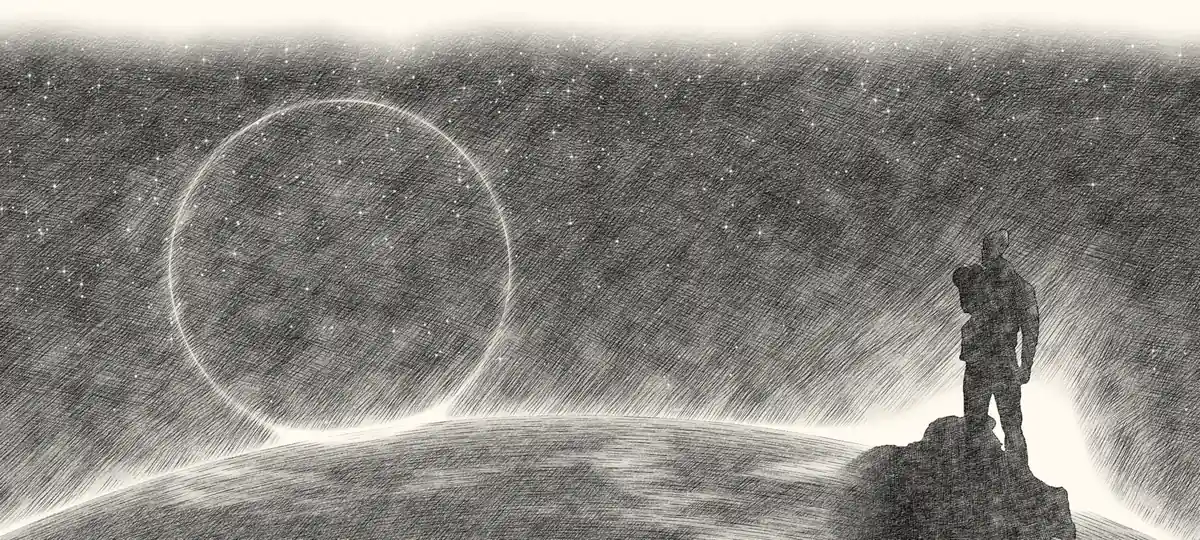
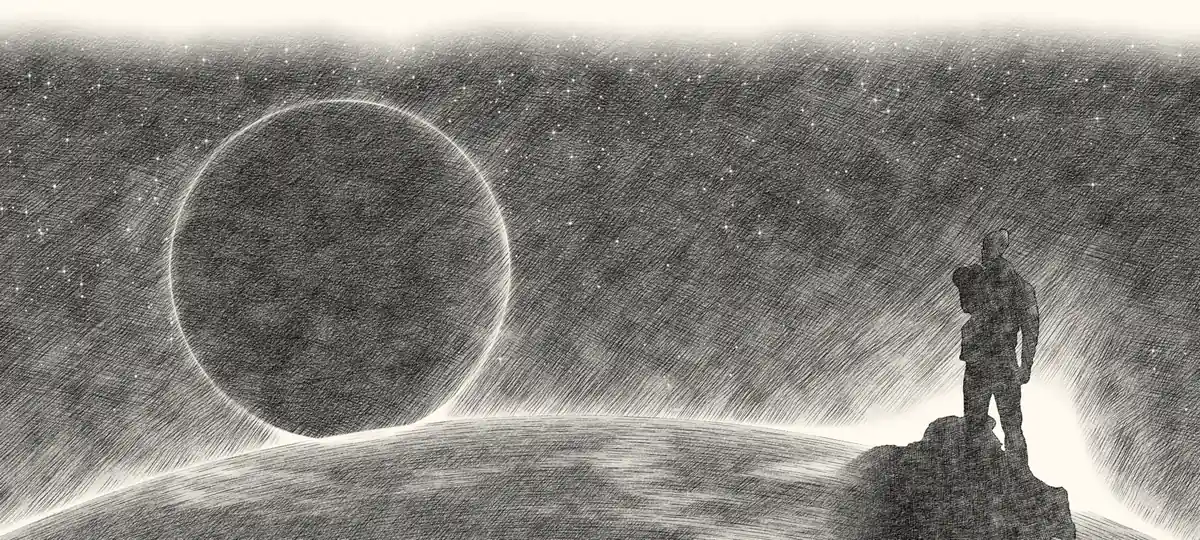
Make the footer's ring a solid planet
Stars no longer show through it. It's shaded darker than the sky and lit
from the right, where the glow behind the man is, so it reads as a ball
rather than a hole.

Session: claude://claude.ai/epitaxy/local_8bf3452f-ca40-4c1d-a549-1e6323dcae47

Changed region(s): [[0.1233, 0.1778, 0.4317, 0.8296]]

diff --git a/bin/footer-drawing/erase.py b/bin/footer-drawing/erase.py
@@ -33,6 +33,8 @@ def main(out):
         n += 1
         m = rnd.random() ** 3.2
         r = .55 + 2.2 * m
+        if math.hypot(x - RING[0], y - RING[1]) < RING[2] + 4:
+            continue  # the planet hides the stars behind it
         dots.append((x, y, r, .45 + .55 * min(1, m * 3)))
         if m > .86:
             glints.append((x, y, r))
